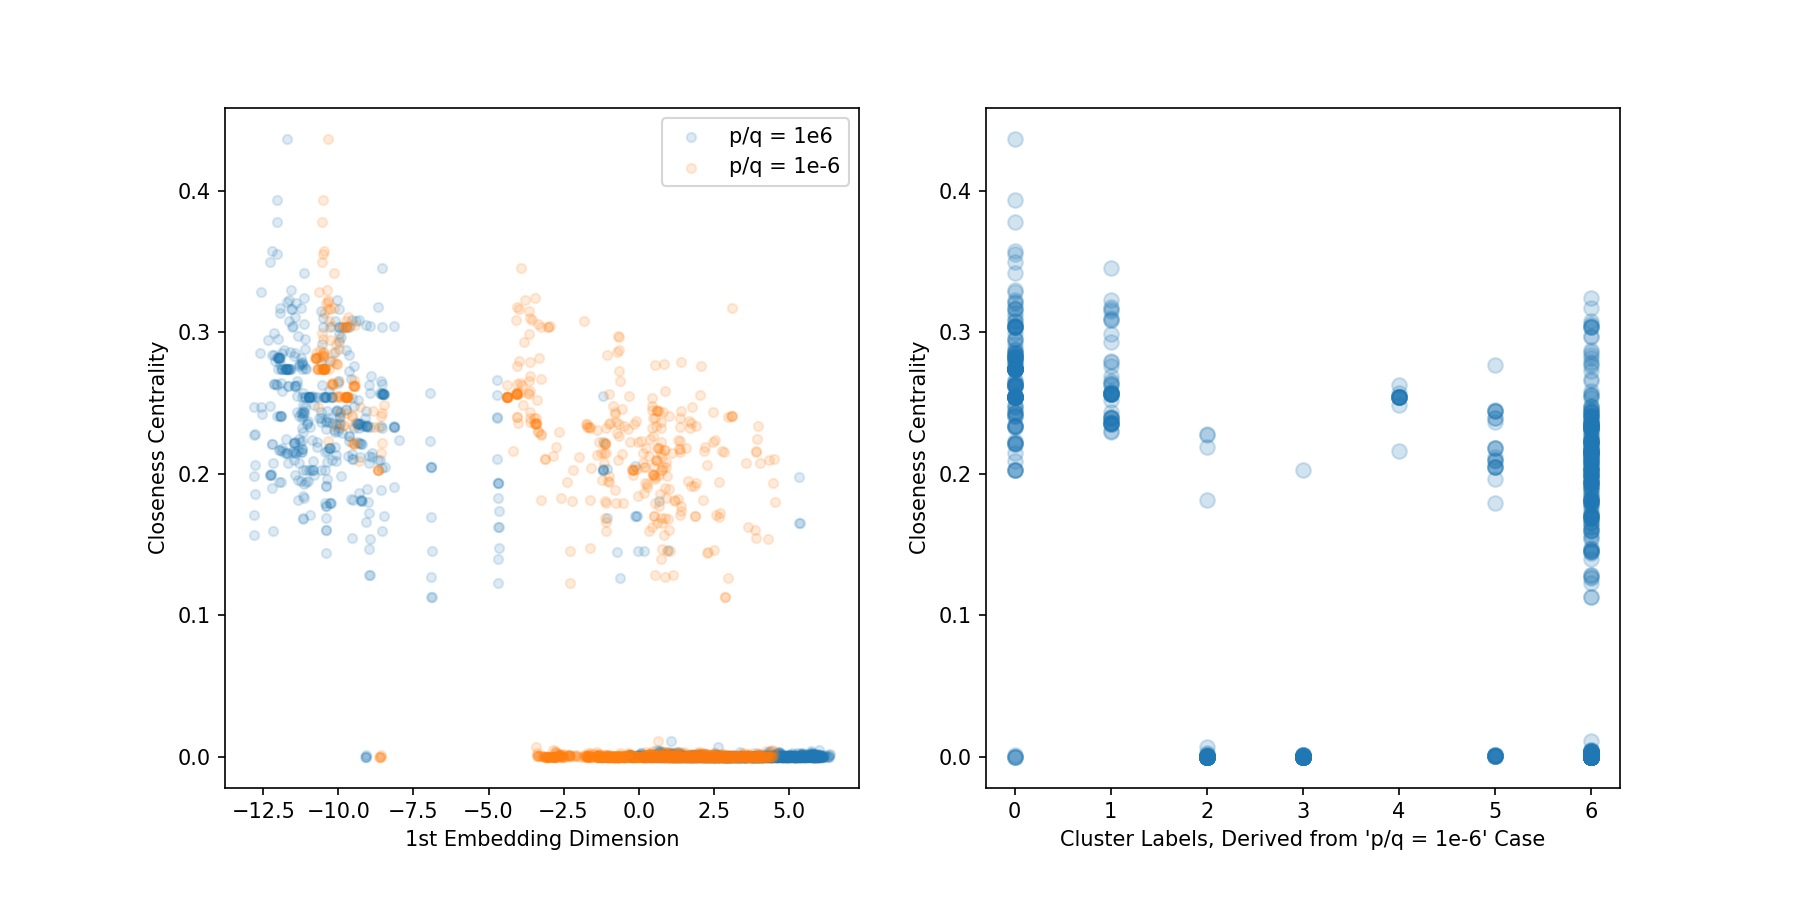
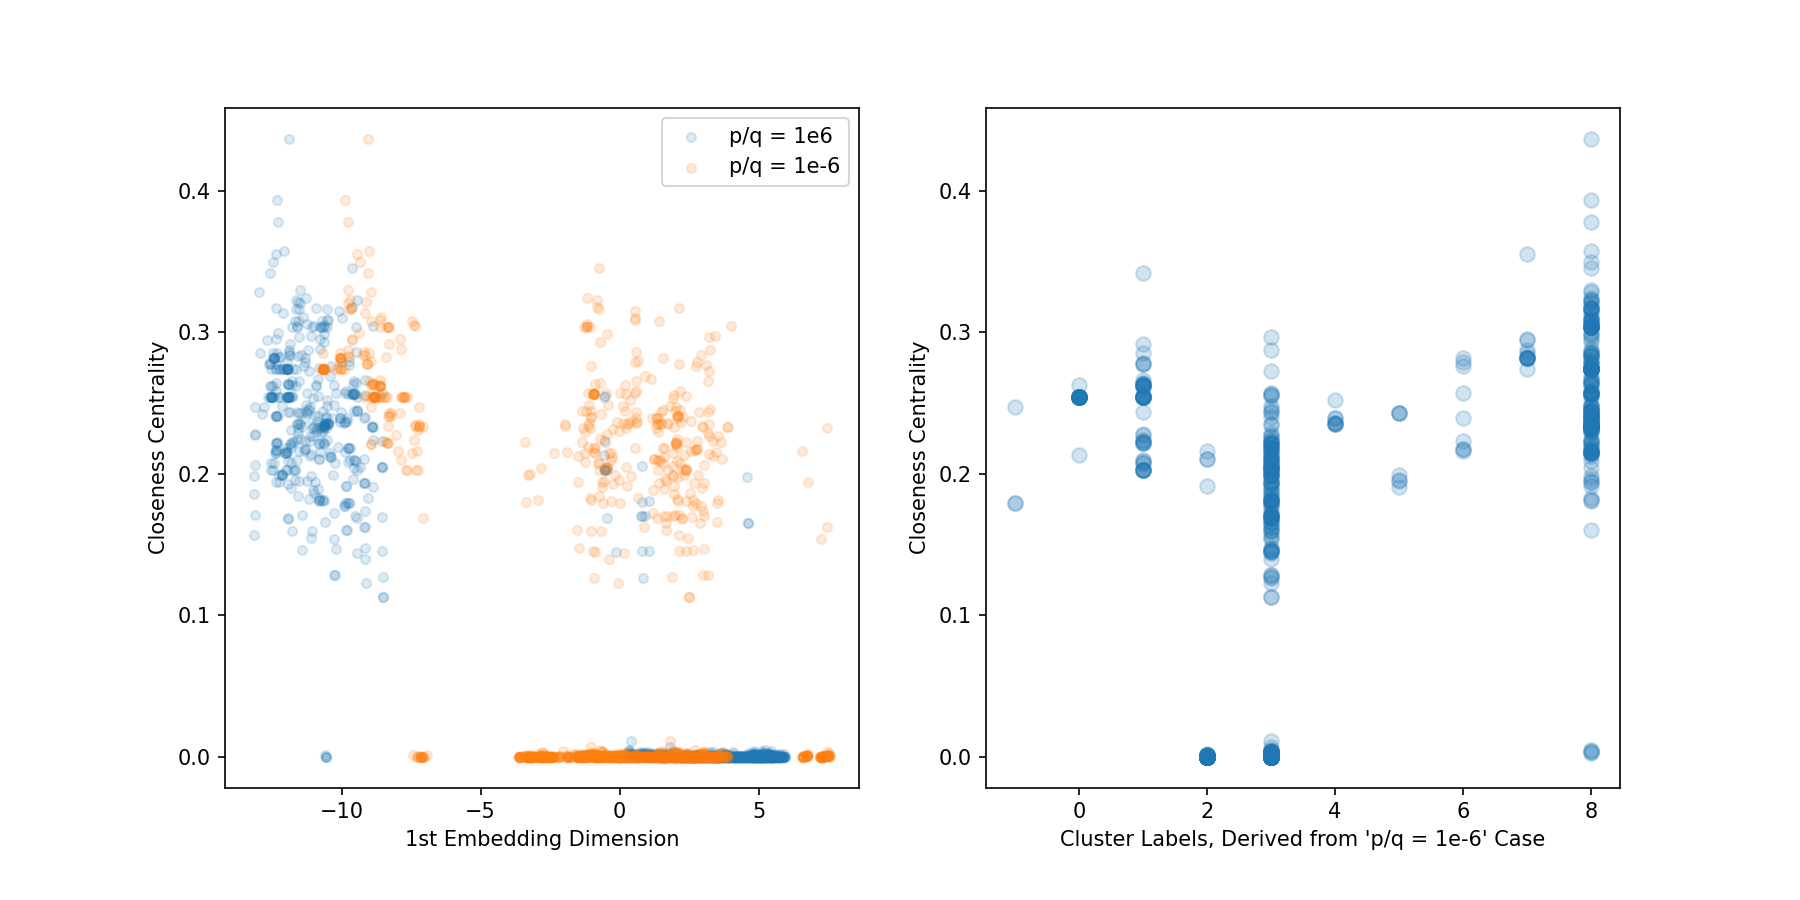
Updated node embedding plots

diff --git a/BIO/emmaa_8_v3_clustering.py b/BIO/emmaa_8_v3_clustering.py
@@ -21,6 +21,7 @@ import matplotlib as mpl
 import matplotlib.pyplot as plt
 import umap
 import hdbscan
+import numba
 
 import emmaa_lib as emlib
 import importlib
@@ -36,27 +37,30 @@ nodes_mitre = emlib.load_jsonl('./dist/v3/nodes_mitre.jsonl', remove_preamble = 
 edges_mitre = emlib.load_jsonl('./dist/v3/edges_mitre.jsonl', remove_preamble = True)
 
 nodeEmb_mitre = []
+nodeEmb_mitre.append(emlib.load_jsonl('./dist/v3/node2vec/G_mitre_pInf_q1_n10len80_directed.jsonl', remove_preamble = False))
 nodeEmb_mitre.append(emlib.load_jsonl('./dist/v3/node2vec/G_mitre_p1000000_q1_n10len80_directed.jsonl', remove_preamble = False))
 # nodeEmb_mitre.append(emlib.load_jsonl('./dist/v3/node2vec/G_mitre_p4_q1_n10len80_undirected.jsonl', remove_preamble = False))
 # nodeEmb_mitre.append(emlib.load_jsonl('./dist/v3/node2vec/G_mitre_p1_q05_n10len80_undirected.jsonl', remove_preamble = False))
 # nodeEmb_mitre.append(emlib.load_jsonl('./dist/v3/node2vec/G_mitre_p1_q1_n10len80_undirected.jsonl', remove_preamble = False))
-# nodeEmb_mitre.append(emlib.load_jsonl('./dist/v3/node2vec/G_mitre_p1_q1_n10len80_undirected_w2.jsonl', remove_preamble = False))
+nodeEmb_mitre.append(emlib.load_jsonl('./dist/v3/node2vec/G_mitre_p1_q1_n10len80_undirected_w2.jsonl', remove_preamble = False))
 nodeEmb_mitre.append(emlib.load_jsonl('./dist/v3/node2vec/G_mitre_p1_q1_n10len80_directed.jsonl', remove_preamble = False))
 # nodeEmb_mitre.append(emlib.load_jsonl('./dist/v3/node2vec/G_mitre_p1_q2_n10len80_undirected.jsonl', remove_preamble = False))
 # nodeEmb_mitre.append(emlib.load_jsonl('./dist/v3/node2vec/G_mitre_p1_q4_n10len80_undirected.jsonl', remove_preamble = False))
 nodeEmb_mitre.append(emlib.load_jsonl('./dist/v3/node2vec/G_mitre_p1_q1000000_n10len80_directed.jsonl', remove_preamble = False))
-
+nodeEmb_mitre.append(emlib.load_jsonl('./dist/v3/node2vec/G_mitre_p1_qInf_n10len80_directed.jsonl', remove_preamble = False))
 
 emb_names = [
+    'node2vec p = Inf, q = 1, directed, w = 10', 
     'node2vec p = 1e6, q = 1, directed, w = 10', 
     # 'node2vec p = 4, q = 1, undirected, w = 10', 
     # 'node2vec p = 1, q = 0.5, undirected, w = 10', 
     # 'node2vec p = 1, q = 1, undirected, w = 10', 
-    # 'node2vec p = 1, q = 1, undirected, w = 2', 
+    'node2vec p = 1, q = 1, undirected, w = 2', 
     'node2vec p = 1, q = 1, directed, w = 10', 
     # 'node2vec p = 1, q = 2, undirected, w = 10', 
     # 'node2vec p = 1, q = 4, undirected, w = 10',
     'node2vec p = 1, q = 1e6, directed, w = 10', 
+    'node2vec p = 1, q = Inf, directed, w = 10', 
     ]
 
 # 'node2vec p = 1e6, q = 1, directed, w = 10'
@@ -87,13 +91,14 @@ model_umap = umap.UMAP(n_components = num_emb_dim_red, n_neighbors = 10, min_dis
 emb_nodes_red = [model_umap.fit_transform(emb) for emb in emb_nodes]
 emb_nodes_red = [emb - np.mean(emb, axis = 0) for emb in emb_nodes_red]
 
-# Time: 1 m 14 s
+# Time: 49.4 s
 
 # %%
 %%time
 
+@numba.njit
 def pairwise_distance(u, v, p = 1):
-    return np.sum(np.abs(u - v) ** p) ** (1.0 / p)
+    return (np.abs(u - v) ** p).sum() ** (1.0 / p)
 
 
 pdist = [{(i, j): -1.0 for i in range(num_nodes) for j in range(0, i) if i != j} for __ in nodeEmb_mitre]
@@ -111,7 +116,7 @@ for p, emb in zip(pdist_red, emb_nodes_red):
 p = u = v = emb = None
 del p, u, v, emb
 
-# time: 3 m 2 s
+# time: 58.4 s
 
 # %%
 
@@ -120,7 +125,7 @@ m = min([v for __, v in pdist[i].items()] + [v for __, v in pdist_red[i].items()
 n = max([v for __, v in pdist[i].items()] + [v for __, v in pdist_red[i].items()])
 x = 10 ** np.linspace(np.log10(m), np.log10(n), 100)
 
-fig, ax = plt.subplots(nrows = num_embs, ncols = 1, figsize = (12, 30))
+fig, ax = plt.subplots(nrows = num_embs, ncols = 1, figsize = (12, 4 * num_embs))
 
 for i, (ax_, s) in enumerate(zip(ax, emb_names)):
 
@@ -134,7 +139,7 @@ for i, (ax_, s) in enumerate(zip(ax, emb_names)):
     __ = ax_.text(0.5, 0.9, f"{s}", transform = ax_.transAxes, horizontalAlignment = 'center')
     __ = plt.setp(ax_, ylabel = 'Counts', xscale = 'log', yscale = 'log')
     if i == 0:
-        __ = plt.setp(ax_, title = 'Un-Normalized Pairwise Distribution - Before/After UMAP Dimensional Reduction')
+        __ = plt.setp(ax_, title = 'Unnormalized Pairwise Distribution - Before/After UMAP Dimensional Reduction')
         __ = ax_.legend()
     if i == (num_embs - 1):
         __ = plt.setp(ax_, xlabel = 'Minkowski Distance (p = 2/3)')
@@ -158,6 +163,8 @@ del m, n, h, h_red, x, fig, ax, ax_
 
 # Generate reference force-directed graph layout with NetworkX
 coors_nx, __, __, __ = emlib.generate_nx_layout(nodes = nodes_mitre, edges = edges_mitre, layout = 'spring', layout_atts = {'k': 0.08})
+
+# time: 13 s
 
 # %%
 # Generate edge list for plotting
@@ -205,7 +212,8 @@ labels_name = ['Log Degree', 'Closeness', 'Harmonic']
 # %%
 fig, ax = plt.subplots(nrows = len(labels), ncols = 2, figsize = (6 * 2, 6 * len(labels)))
 
-k = 1
+
+k = [i for i, name in enumerate(emb_names) if name == 'node2vec p = Inf, q = 1, directed, w = 10'][0]
 emb = emb_nodes_red[k]
 for i, (labels_, s) in enumerate(zip(labels, labels_name)):
 
@@ -222,7 +230,7 @@ for i, (labels_, s) in enumerate(zip(labels, labels_name)):
 
 
 i = 0
-__ = plt.setp(ax[i, 0], title = 'node2vec Embeddings (p = 1, q = 1, UMAP)')
+__ = plt.setp(ax[i, 0], title = 'node2vec Embeddings (p = Inf, q = 1) & UMAP')
 __ = plt.setp(ax[i, 1], title = 'Reference Forced-Directed Layout (k = 0.08)')
 
 
@@ -268,17 +276,21 @@ i = s = fig = ax = emb = None
 del i, s, fig, ax, emb
 
 # %%[markdown]
-# ## Track by Clusters (UMAP Dim)
+# ## Track by Clusters (1)
+# 
+# Clustering using  the `p = 1, q = Inf, w = 10` embeddings.
 
 # %%
 %%time
 
-# Generate cluster labels using the (p = 1, q = 4) embeddings
+# Generate cluster labels using the `p = 1, q = Inf, directed, w = 10` embeddings
+
+k = [i for i, name in enumerate(emb_names) if name == 'node2vec p = 1, q = Inf, directed, w = 10'][0]
 
 # kwargs = {'metric': 'minkowski', 'p': 2.0 / 3.0, 'min_cluster_size': 2, 'min_samples': 3, 'cluster_selection_epsilon': 0.2}
 kwargs = {'metric': 'euclidean', 'min_cluster_size': 2, 'min_samples': 3, 'cluster_selection_epsilon': 0.45}
 clusterer = hdbscan.HDBSCAN(**kwargs)
-clusterer.fit(emb_nodes_red[-1])
+clusterer.fit(emb_nodes_red[k])
 labels_ = clusterer.labels_
 # cluster_probs = clusterer.probabilities_
 # outlier_scores = clusterer.outlier_scores_
@@ -319,27 +331,100 @@ __ = plt.setp(ax[i, 0], title = 'node2vec Embeddings (UMAP & HDBSCAN)')
 __ = plt.setp(ax[i, 1], title = 'Reference Forced-Directed Layout (k = 0.08)')
 
 
-fig.savefig('./figures/v3/mitre_subgraph_node2vec_umap_hdbscan_pq.png', dpi = 150)
+fig.savefig('./figures/v3/mitre_subgraph_node2vec_umap_hdbscan_pq_Inf.png', dpi = 150)
 
 i = s = fig = ax = emb = None
 del i, s, fig, ax, emb
 
+
+# %%[markdown]
+# ## Track by Clusters (2)
+# 
+# Clustering using  the `p = 1, q = 1, w = 2` embeddings.
+
+# %%
+%%time
+
+k = [i for i, name in enumerate(emb_names) if name == 'node2vec p = 1, q = 1, undirected, w = 2'][0]
+
+# kwargs = {'metric': 'minkowski', 'p': 2.0 / 3.0, 'min_cluster_size': 2, 'min_samples': 3, 'cluster_selection_epsilon': 0.2}
+kwargs = {'metric': 'euclidean', 'min_cluster_size': 2, 'min_samples': 3, 'cluster_selection_epsilon': 0.35}
+clusterer = hdbscan.HDBSCAN(**kwargs)
+clusterer.fit(emb_nodes_red[k])
+labels_ = clusterer.labels_
+# cluster_probs = clusterer.probabilities_
+# outlier_scores = clusterer.outlier_scores_
+# cluster_persist = clusterer.cluster_persistence_
+
+
+print(f'Number of clusters: {len(np.unique(labels_)):d}')
+print(f'Number of unclustered points: {sum(labels_ == -1):d} (of {num_nodes:d})')
+
+
+kwargs = clusterer = None
+del kwargs, clusterer
+
+# Time: 58.3 ms
+
+
+# %%
+fig, ax = plt.subplots(nrows = num_embs, ncols = 2, figsize = (6 * 2, 6 * num_embs))
+
+for i, (emb, s) in enumerate(zip(emb_nodes_red, emb_names)):
+
+    if i == 2:
+        __ = emlib.plot_emb(coor = emb, labels = labels_, cmap_name = 'qual', legend_kwargs = {'loc': 'lower left', 'ncol': 3}, colorbar = False, marker_size = 2.0, edge_list = edge_list, ax = ax[i, 0], str_title = ' ')
+
+    else:
+        __ = emlib.plot_emb(coor = emb, labels = labels_, cmap_name = 'qual', legend_kwargs = {}, colorbar = False, edge_list = edge_list, ax = ax[i, 0], str_title = ' ')
+
+    __ = emlib.plot_emb(coor = np.array([v for __, v in coors_nx.items()]), labels = labels_, cmap_name = 'qual', legend_kwargs = {}, colorbar = False, edge_list = edge_list, ax = ax[i, 1], str_title = ' ')
+
+    __ = ax[i, 0].text(0.5, 0.95, f"{s}", transform = ax[i, 0].transAxes, horizontalAlignment = 'center')
+    __ = plt.setp(ax[i, 0], xlabel = '', ylabel = '')
+    __ = plt.setp(ax[i, 1], xlabel = '', ylabel = '')
+    ax[i, 0].tick_params(length = 0, labelbottom = False, labelleft = False)
+    ax[i, 1].tick_params(length = 0, labelbottom = False, labelleft = False)
+
+i = 0
+__ = plt.setp(ax[i, 0], title = 'node2vec Embeddings (UMAP & HDBSCAN)')
+__ = plt.setp(ax[i, 1], title = 'Reference Forced-Directed Layout (k = 0.08)')
+
+
+fig.savefig('./figures/v3/mitre_subgraph_node2vec_umap_hdbscan_w_2.png', dpi = 150)
+
+i = s = fig = ax = emb = None
+del i, s, fig, ax, emb
+
+
 # %%
 
-fig, ax = plt.subplots(nrows = 1, ncols = 2, figsize = (12, 6))
-
-ax[0].scatter(emb_nodes_red[0][:, 0], labels[1], marker = 'o', s = 20, alpha = 0.15, label = 'p/q = 1e6')
-ax[0].scatter(emb_nodes_red[2][:, 0], labels[1], marker = 'o', s = 20, alpha = 0.15, label = 'p/q = 1e-6')
-__ = plt.setp(ax[0], xlabel = '1st Embedding Dimension', ylabel = 'Closeness Centrality')
-__ = ax[0].legend()
-
-ax[1].scatter(labels_, labels[1], marker = 'o', s = 50, alpha = 0.2)
-__ = plt.setp(ax[1], xlabel = "Cluster Labels, Derived from 'p/q = 1e-6' Case", ylabel = 'Closeness Centrality')
 
 
-fig.savefig('./figures/v3/mitre_subgraph_node2vec_umap_hdbscan_pq_comp.png', dpi = 150)
-
-fig = ax = None
-del fig, ax
 
 
+
+
+
+
+# %%
+
+# fig, ax = plt.subplots(nrows = 1, ncols = 2, figsize = (12, 6))
+
+# ax[0].scatter(emb_nodes_red[0][:, 0], labels[1], marker = 'o', s = 20, alpha = 0.15, label = 'p/q = 1e6')
+# ax[0].scatter(emb_nodes_red[-1][:, 0], labels[1], marker = 'o', s = 20, alpha = 0.15, label = 'p/q = 1e-6')
+# __ = plt.setp(ax[0], xlabel = '1st Embedding Dimension', ylabel = 'Closeness Centrality')
+# __ = ax[0].legend()
+
+# ax[1].scatter(labels_, labels[1], marker = 'o', s = 50, alpha = 0.2)
+# __ = plt.setp(ax[1], xlabel = "Cluster Labels, Derived from 'p/q = 1e-6' Case", ylabel = 'Closeness Centrality')
+
+
+# fig.savefig('./figures/v3/mitre_subgraph_node2vec_umap_hdbscan_pq_comp.png', dpi = 150)
+
+# fig = ax = None
+# del fig, ax
+
+
+
+# %%

diff --git a/BIO/emmaa_9_v3_doc-subgraph.py b/BIO/emmaa_9_v3_doc-subgraph.py
@@ -7,7 +7,10 @@
 # Content: 
 # * Load data of the full EMMAA Covid-19 graph
 # * Filter statements by a given document DOI/PMID/PMCID
-# * Get the nodes and edges associated with these statements
+# * Get the list of nodes and edges associated with these statements
+# * Get documents referenced by these edges
+# * Filter statements by these documents
+# * Get the expanded list of nodes and edges
 # * Generate the associated output files (`nodes.jsonl, edges.jsonl, G.pkl, ...`)
 
 # %%
@@ -42,14 +45,14 @@ x = None
 del x
 
 # %%[markdown]
-# # Filter Statements by Reference
-statements_doc = [statements_all[j] for j in set([i for i, s in enumerate(statements_all) for ev in s['evidence'] if ('text_refs' in ev.keys()) if (doc['id_type'] in ev['text_refs'].keys()) if ev['text_refs'][doc['id_type']] == doc['id']])]
+# # Filter Statements by Referenced Document
+s_doc = set([i for i, s in enumerate(statements_all) for ev in s['evidence'] if ('text_refs' in ev.keys()) if (doc['id_type'] in ev['text_refs'].keys()) if ev['text_refs'][doc['id_type']] == doc['id']])
 
-statements_all = None
-del statements_all
+# statements_all = None
+# del statements_all
 
 # %%
-print(f"{len(statements_doc)} statements found to reference the document with {doc['id_type']} = {doc['id']}")
+print(f"{len(s_doc)} statements found to reference the document with {doc['id_type']} = {doc['id']}")
 # 7 statements found to reference the document with DOI = 10.1016/J.IMMUNI.2020.04.003
 
 # %%[markdown]
@@ -61,16 +64,86 @@ edges_model = emlib.load_jsonl('./dist/v3/edges_model.jsonl', remove_preamble = 
 # %%[markdown]
 # # Filter the Node and Edge List
 
-x = [s['matches_hash'] for s in statements_doc]
-edges_doc = [edge for edge in edges_model if edge['statement_id'] in x]
-nodes_doc = [nodes_model[j] for j in set([edge['source_id'] for edge in edges_doc] + [edge['target_id'] for edge in edges_doc])]
+x = [statements_all[s]['matches_hash'] for s in s_doc]
+e_doc = [e for e, edge in enumerate(edges_model) if edge['statement_id'] in x]
+n_doc = set([edges_model[e]['source_id'] for e in e_doc] + [edges_model[e]['target_id'] for e in e_doc])
 
-nodes_model = edges_model = x = None
-del nodes_model, edges_model, x
+x = None
+del x
 
 # %%
-print(f"{len(nodes_doc)} nodes and {len(edges_doc)} edges found to be associated with the document with {doc['id_type']} = {doc['id']}")
+print(f"{len(n_doc)} nodes and {len(e_doc)} edges found to be associated with the document with {doc['id_type']} = {doc['id']}")
 # 10 nodes and 8 edges found to be associated with the document with DOI = 10.1016/J.IMMUNI.2020.04.003
+
+# %%[markdown]
+# # Get Documents Referenced by the Edge List
+
+# %%
+
+
+e_exp = set([e for n in n_doc for e in nodes_model[n]['edge_ids_source']] + [e for n in n_doc for e in nodes_model[n]['edge_ids_target']])
+n_exp = set([edges_model[e]['source_id'] for e in e_exp] + [edges_model[e]['target_id'] for e in e_exp])
+
+x = set([edges_model[e]['statement_id'] for e in e_exp])
+s_exp = [s for s, statement in enumerate(statements_all) if statement['matches_hash'] in x]
+docs_exp = list(set([ev['text_refs']['PMID'] for s in s_exp for ev in statements_all[s]['evidence'] if ('text_refs' in ev.keys()) if 'PMID' in ev['text_refs'].keys()]))
+
+x = None
+del x
+
+
+# %%
+print(f"The previous {len(n_doc)} nodes are linked to {len(e_exp)} edges, which are linked to {len(n_exp)} nodes and reference {len(docs_exp)} documents in total.")
+# The previous 10 nodes are linked to 12715 edges, which are linked to 4924 nodes and reference 9252 documents in total.
+
+# %%
+# # Plot Results
+
+# %%
+
+nodes_doc = [nodes_model[n] for n in n_doc]
+edges_doc = [edges_model[e] for e in e_doc]
+
+G_doc = emlib.generate_nx_object(nodes_doc, edges_doc)
+
+
+
+
+__ = emlib.generate_nx_layout(G = G_doc, layout = 'kamada_kawai', plot = True, 
+    plot_atts = {'verticalalignment': 'top','font_size': 10, 'with_labels': True, 'arrows': True, 
+    'node_size': [10 * node[1] for node in G_doc.degree()], 'width': 1, 
+    'labels': {node: G_doc.nodes[node]['name'] for node in G_doc.nodes()}, 
+    'cmap': 'cool'})
+# fig.savefig('./figures/v3/boutique_subgraph_layout_degree.png', dpi = 150)
+
+
+
+
+# %%
+
+nodes_exp = [nodes_model[n] for n in n_exp]
+edges_exp = [edges_model[e] for e in e_exp]
+
+G_exp = emlib.generate_nx_object(nodes_exp, edges_exp)
+
+__, __, fig, __ = emlib.generate_nx_layout(G = G_exp, layout = 'spring', layout_atts = {'k': 0.5}, plot = True, 
+    plot_atts = {'verticalalignment': 'top','font_size': 10, 'with_labels': False, 'arrows': False, 
+    'node_size': [node[1] for node in G_exp.degree()], 'width': 1, 
+    'labels': {node: G_exp.nodes[node]['name'] for node in G_exp.nodes()}, 
+    'cmap': 'cool'})
+# fig.savefig('./figures/v3/boutique_subgraph_layout_degree.png', dpi = 150)
+
+
+
+
+
+
+
+
+
+
+
+
 
 # %%
 # Save `nodes`
